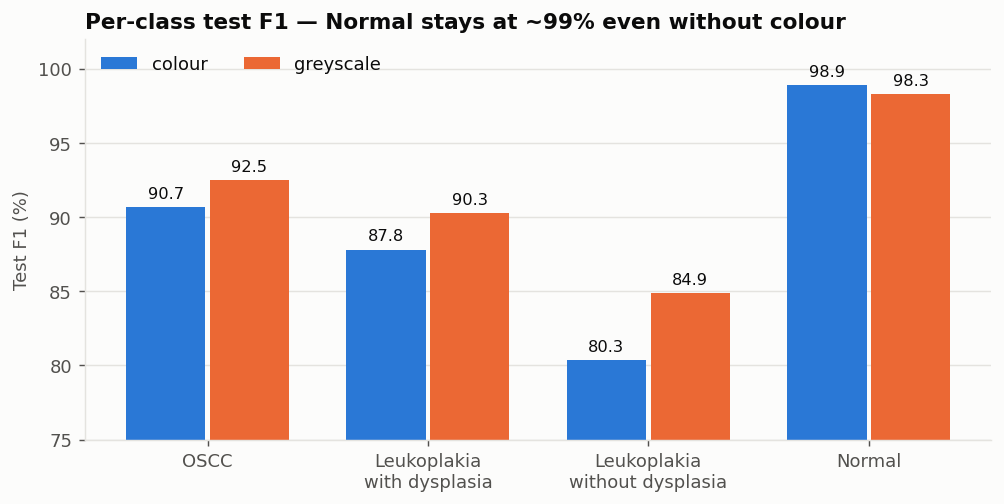
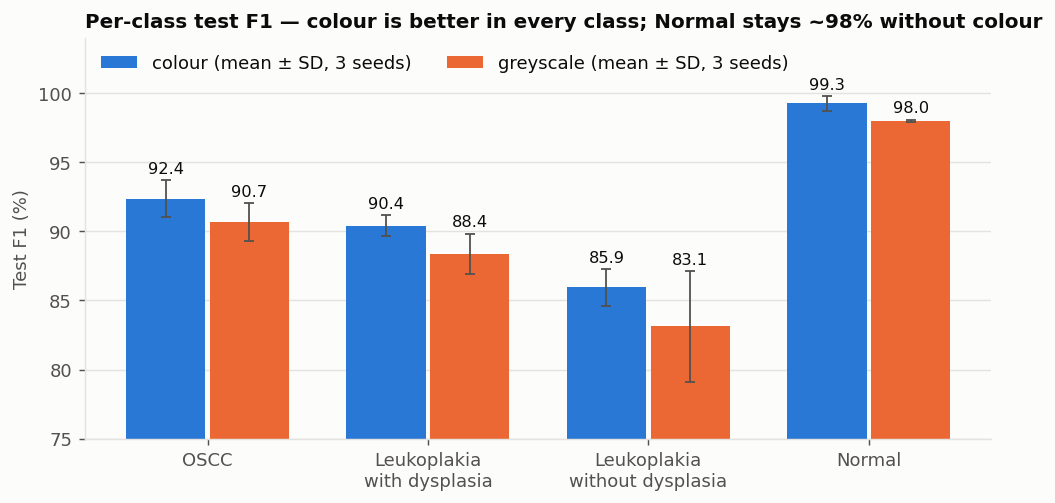
Per-class F1 figure: mean +/- SD over 3 seeds
The old figure used the single seed-42 runs, where the colour run was
a low outlier (88.6%), so greyscale looked better per class. Over the
3 seeds colour leads in every class. README text now says the
confusion matrix and curves are from that example run.

diff --git a/scripts/reporting/make_readme_figures.py b/scripts/reporting/make_readme_figures.py
@@ -297,23 +297,35 @@ def fig_confusion_matrix():
 # 6. CLASSIFICATION: PER-CLASS F1, COLOUR VS GREYSCALE
 # ============================================================
 
+SEEDS = (1, 2, 3)
+
+
 def fig_per_class_f1():
+    # Mean +/- SD over the 3 seeds, like the headline numbers. A single run
+    # can move 2-4 points (the seed-42 colour run was a low outlier), so a
+    # single-run bar chart would contradict the multi-seed comparison.
     fig, ax = plt.subplots(figsize=(9, 4))
     x = np.arange(4)
     width = 0.36
 
     runs = [("convnext_tiny_4class_224px", "colour"), ("convnext_tiny_4class_gray_224px", "greyscale")]
     for k, (run, label) in enumerate(runs):
-        preds = pd.read_csv(RUNS / run / "test_predictions.csv")
-        f1 = f1_score(preds["class"], preds["predicted"], labels=CLASSES_4, average=None) * 100
-        bars = ax.bar(x + (k - 0.5) * (width + 0.02), f1, width, color=SERIES[k], label=label)
-        for b, v in zip(bars, f1):
-            ax.text(b.get_x() + b.get_width() / 2, v + 0.6, f"{v:.1f}", ha="center", fontsize=9)
+        f1 = np.array([
+            f1_score(p["class"], p["predicted"], labels=CLASSES_4, average=None) * 100
+            for p in (pd.read_csv(RUNS / f"{run}_seed{s}" / "test_predictions.csv") for s in SEEDS)
+        ])
+        mean, sd = f1.mean(axis=0), f1.std(axis=0, ddof=1)
+        bars = ax.bar(x + (k - 0.5) * (width + 0.02), mean, width, yerr=sd, color=SERIES[k],
+                      error_kw=dict(ecolor=TEXT_SECONDARY, capsize=3, linewidth=1),
+                      label=f"{label} (mean ± SD, 3 seeds)")
+        for b, m, s in zip(bars, mean, sd):
+            ax.text(b.get_x() + b.get_width() / 2, m + s + 0.5, f"{m:.1f}", ha="center", fontsize=9)
 
     ax.set_xticks(x, [CLASS_LABELS[c] for c in CLASSES_4])
-    ax.set_ylim(75, 102)
+    ax.set_ylim(75, 104)
     ax.set_ylabel("Test F1 (%)")
-    ax.set_title("Per-class test F1 — Normal stays at ~99% even without colour", loc="left")
+    ax.set_title("Per-class test F1 — colour is better in every class; Normal stays ~98% without colour",
+                 loc="left", fontsize=11)
     ax.legend(loc="upper left", ncol=2)
     clean_axes(ax)
     save(fig, "per_class_f1.png")

diff --git a/README.md b/README.md
@@ -165,15 +165,17 @@ All models are trained on the **sharpness-matched** data (see [Explainability](#
 - **Greyscale input** costs about 1.7 points, within about one SD of the colour model. Colour helps a little but is not the main signal. Normal stays at ~98% F1 without colour.
 - **Seed variation matters.** Single runs of the same model ranged over up to ~2 points (4-class: 90.9–93.0%), and an earlier single 4-class run of 88.6% was a low outlier against the 3-seed mean of 92.2%.
 
-The confusion matrix, training curves and per-class F1 below come from one representative run (seed 42).
+![Per-class F1](docs/images/per_class_f1.png)
+
+Per class (mean ± SD over the same 3 seeds), the colour model is ahead of greyscale in **every** class. "Without dysplasia" is the hardest class (85.9% F1) and varies most between runs.
+
+The confusion matrix and training curves below come from one example run (seed 42). That run is the low outlier mentioned above (88.6%), so they show the *kind* of mistakes the model makes, not its average score.
 
 ![Confusion matrix](docs/images/confusion_matrix.png)
 
 Errors are almost entirely between **adjacent grades** (OSCC ↔ with dysplasia, with ↔ without dysplasia), and OSCC is never predicted as non-dysplastic. "Without dysplasia" is the hardest class, consistent with the literature.
 
 ![Training curves](docs/images/training_curves.png)
-
-![Per-class F1](docs/images/per_class_f1.png)
 
 ---
 
